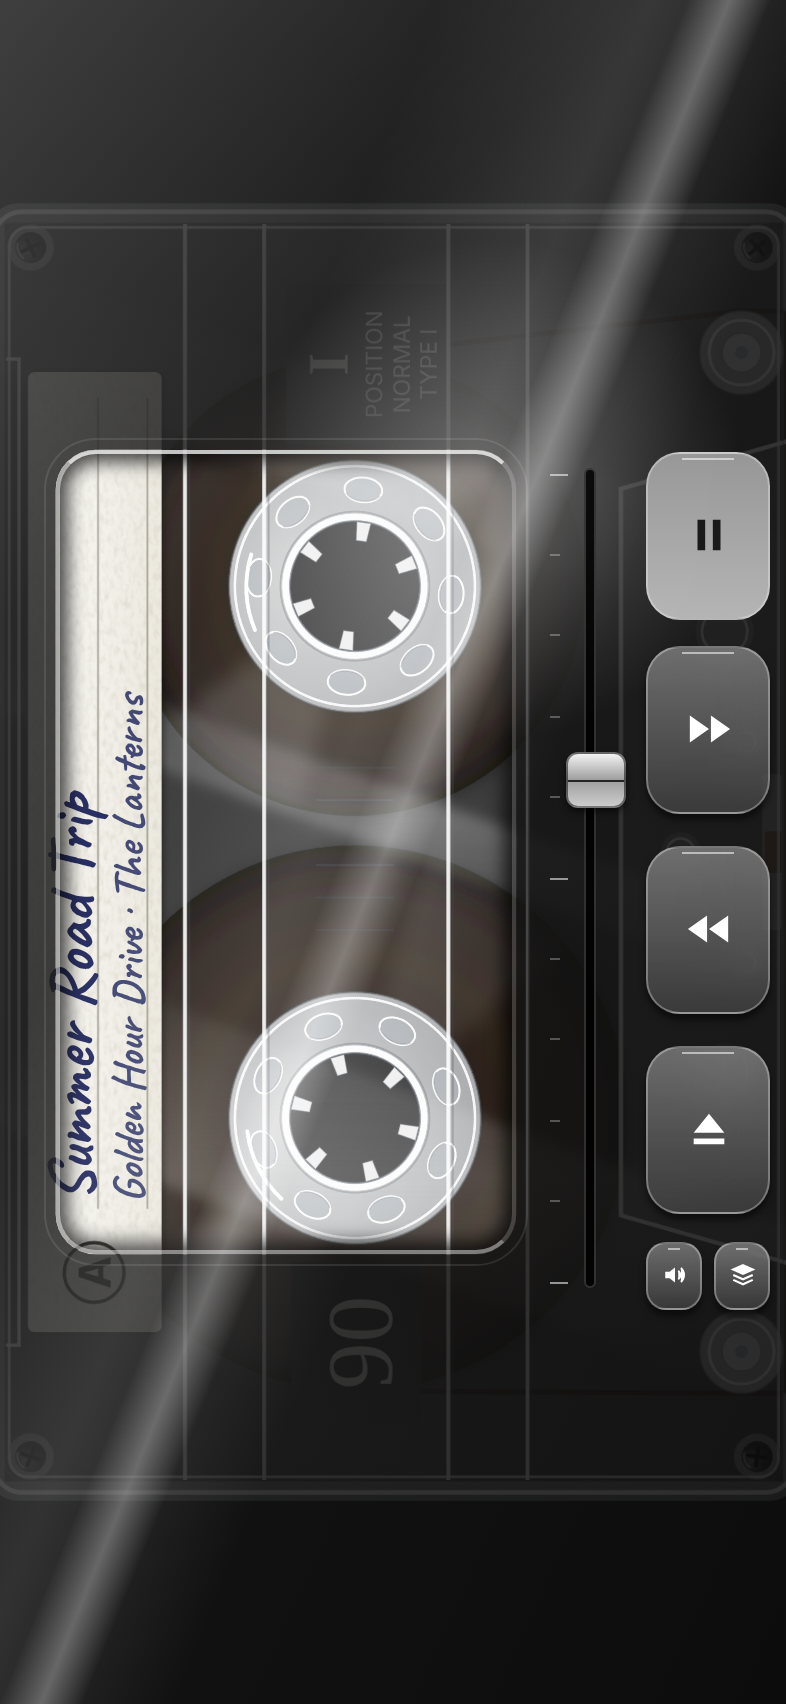
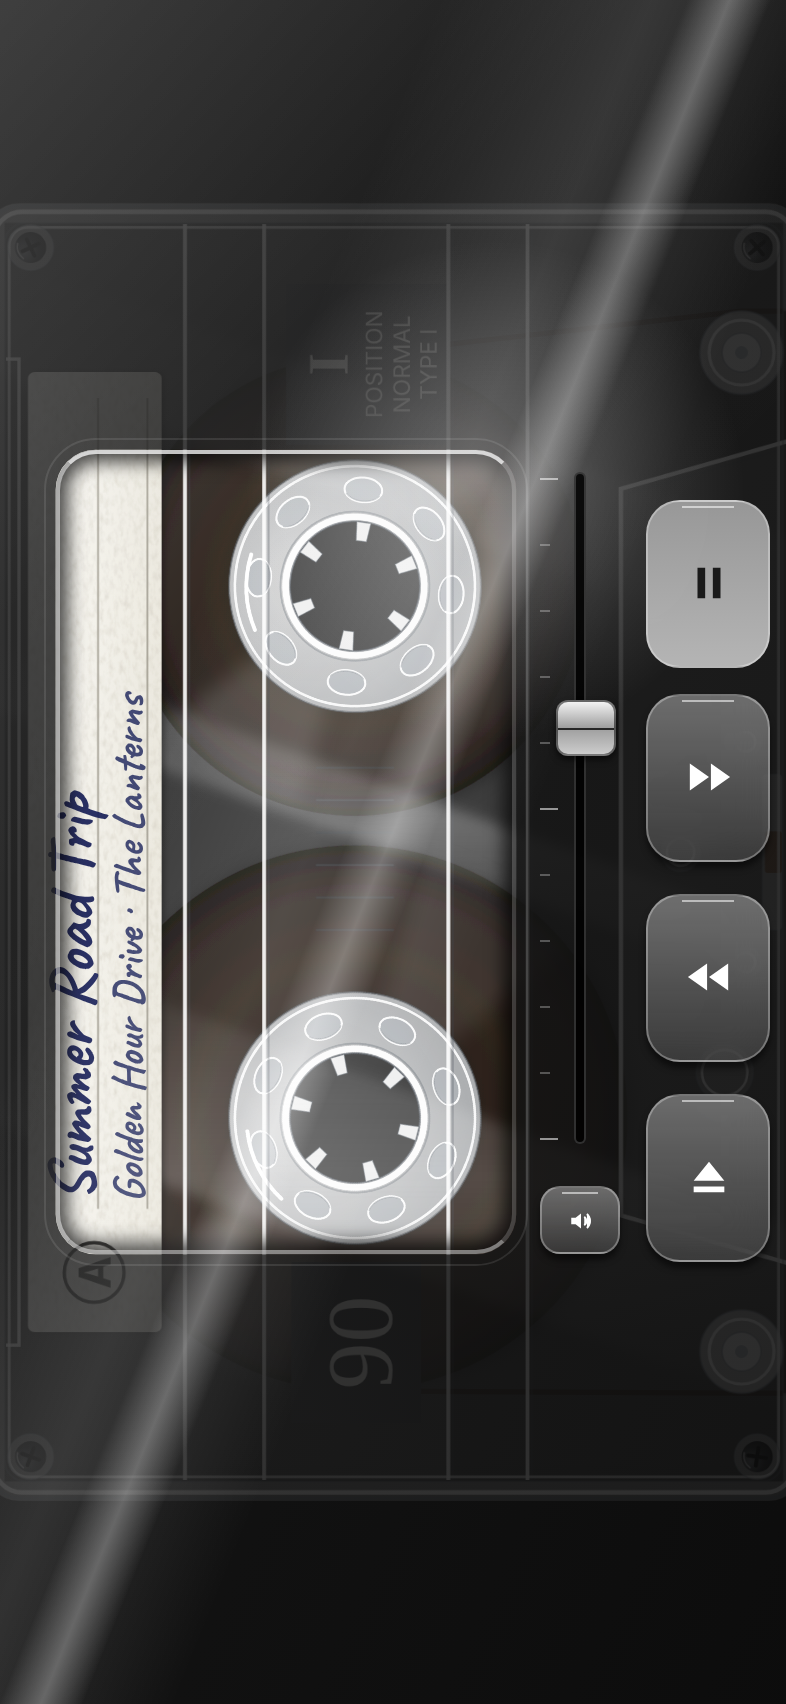
Align the volume fader with the window, add mute, drop stop and the small keys
The fader sits beside the tape window at the same height, with a mute
key at its foot. The last transport key is a plain eject that opens the
shelf, so the separate shelf and sound keys are gone.

Claude-Session: https://claude.ai/code/session_015CNmSEpanpmujmbPK8yXHv

Changed region(s): [[0.8244, 0.2488, 1.0, 0.7776], [0.7023, 0.2799, 0.7939, 0.4977], [0.6718, 0.6532, 0.7939, 0.7465]]

diff --git a/TapeDeck/DeckView.swift b/TapeDeck/DeckView.swift
@@ -33,24 +33,20 @@ struct DeckView: View {
             let insets = geo.safeAreaInsets
             let rail = max(insets.leading, insets.trailing) >= 60
             let railLeading = rail && insets.leading > insets.trailing
+            let full = CGSize(width: geo.size.width + insets.leading + insets.trailing,
+                              height: geo.size.height + insets.top + insets.bottom)
+            let window = windowRect(in: full)
             HStack(spacing: 0) {
-                if railLeading {
-                    keyColumn(insets: insets, rail: true, leading: true)
-                    fader(insets: insets, rail: true)
-                }
+                if railLeading { keyColumn(insets: insets, rail: true, leading: true) }
                 // The face itself is drawn in the background, full screen.
                 Color.clear
                     .contentShape(Rectangle())
                     .onTapGesture {
                         if !model.hasTape { openShelf() }
                     }
-                if !railLeading {
-                    fader(insets: insets, rail: rail)
-                    keyColumn(insets: insets, rail: rail, leading: false)
-                }
+                if !railLeading { keyColumn(insets: insets, rail: rail, leading: false) }
             }
-            .frame(width: geo.size.width + insets.leading + insets.trailing,
-                   height: geo.size.height + insets.top + insets.bottom)
+            .frame(width: full.width, height: full.height)
             .background(
                 ZStack {
                     Color(white: 0.03)
@@ -58,6 +54,12 @@ struct DeckView: View {
                     clearCase
                 }
             )
+            // Volume: beside the window and exactly as tall as it is
+            .overlay(alignment: .topLeading) {
+                VolumeColumn()
+                    .frame(width: 40, height: window.height)
+                    .offset(x: railLeading ? window.minX - 52 : window.maxX + 12, y: window.minY)
+            }
             .ignoresSafeArea()
         }
     }
@@ -76,14 +78,8 @@ struct DeckView: View {
         GeometryReader { geo in
             let size = geo.size
             let upright = size.height > size.width
-            let long = upright ? size.height : size.width
-            let short = upright ? size.width : size.height
-            // As big as the screen allows. It may run a little past the
-            // edges, but never far enough to lose the label.
-            let fit = min(long / 100, short / 63)
-            let fill = max(long / 100, short / 63)
-            let scale = min(fill, fit * 1.04)
-            let window = windowRect(in: size, upright: upright, scale: scale)
+            let scale = tapeScale(in: size)
+            let window = windowRect(in: size)
             let opening = RoundedRectangle(cornerRadius: 20)
             ZStack {
                 if model.hasTape {
@@ -130,8 +126,21 @@ struct DeckView: View {
         }
     }
 
+    /// How many points one millimetre of cassette takes: as big as the screen
+    /// allows. The cassette may run a little past the edges, but never far
+    /// enough to lose the label.
+    private func tapeScale(in size: CGSize) -> CGFloat {
+        let long = max(size.width, size.height)
+        let short = min(size.width, size.height)
+        let fit = min(long / 100, short / 63)
+        let fill = max(long / 100, short / 63)
+        return min(fill, fit * 1.04)
+    }
+
     /// Where `windowOnCassette` lands on screen.
-    private func windowRect(in size: CGSize, upright: Bool, scale: CGFloat) -> CGRect {
+    private func windowRect(in size: CGSize) -> CGRect {
+        let upright = size.height > size.width
+        let scale = tapeScale(in: size)
         let w = windowOnCassette
         if upright {
             // Turned a quarter turn: the cassette's top edge is at the left
@@ -192,54 +201,14 @@ struct DeckView: View {
 
     // MARK: Keys
 
-    /// Four big transport keys (play and pause share one), then two small
-    /// ones side by side: sound effects and the tape shelf.
+    /// Four big keys: play/pause, fast forward, rewind and eject.
     private func keys(height: CGFloat) -> some View {
-        VStack(spacing: 14) {
-            TransportKeys(vertical: true, keyHeight: height, bare: true, big: true,
-                          spacing: keyGap, onEject: openShelf)
-            HStack(spacing: 6) {
-                TapeKey(symbol: model.soundEffectsOn ? "speaker.wave.2.fill" : "speaker.slash.fill",
-                        label: model.soundEffectsOn ? "Tape sound effects on" : "Tape sound effects off",
-                        height: smallKeyHeight, showsLabel: false, corner: 10, symbolSize: 13,
-                        onDown: {
-                            Haptics.keyDown()
-                            model.soundEffectsOn.toggle()
-                        })
-                TapeKey(symbol: "square.stack.3d.up.fill", label: "Tape shelf",
-                        height: smallKeyHeight, showsLabel: false, corner: 10, symbolSize: 13,
-                        onDown: {
-                            Haptics.keyDown()
-                            openShelf()
-                        })
-            }
-        }
+        TransportKeys(vertical: true, keyHeight: height, bare: true, big: true,
+                      spacing: keyGap, onEject: openShelf)
     }
-
-    private let smallKeyHeight: CGFloat = 34
-    /// Room the small keys and the gap above them take in the column.
-    private var smallKeysRoom: CGFloat { 14 + smallKeyHeight }
 
     private func keyHeight(room: CGFloat) -> CGFloat {
-        min(bigKeyHeight, max(40, (room - smallKeysRoom - 3 * keyGap) / 4))
-    }
-
-    /// The volume fader, standing beside the keys and as tall as they are.
-    private func fader(insets: EdgeInsets, rail: Bool) -> some View {
-        GeometryReader { geo in
-            let top = rail ? railStatusHeight : insets.top + 12
-            let bottom = insets.bottom + 12
-            let room = geo.size.height - top - bottom
-            let column = 4 * keyHeight(room: room) + 3 * keyGap + smallKeysRoom
-            VStack(spacing: 0) {
-                if !rail { Spacer(minLength: 0) }
-                VolumeFader().frame(height: min(column, max(60, room)))
-                Spacer(minLength: 0)
-            }
-            .padding(.top, top)
-            .padding(.bottom, bottom)
-        }
-        .frame(width: 40)
+        min(bigKeyHeight, max(40, (room - 3 * keyGap) / 4))
     }
 
     /// The column of keys. In the Duo's rail it starts below the camera and
@@ -281,7 +250,8 @@ struct DeckView: View {
     }
 }
 
-/// The five keys, in a column for the closed phone or a row for the open one.
+/// The transport keys, in a column for the closed phone or a row for the open
+/// one. There is no stop key: pause stops the music and keeps your place.
 struct TransportKeys: View {
     @EnvironmentObject private var model: PlayerModel
     var vertical: Bool
@@ -291,6 +261,9 @@ struct TransportKeys: View {
     /// Four large rounded keys, with play and pause sharing one.
     var big = false
     var spacing: CGFloat = 6
+    /// True where eject should take the tape out; false where it only opens
+    /// the shelf to pick another.
+    var ejectRemovesTape = false
     var onEject: () -> Void = {}
 
     var body: some View {
@@ -320,9 +293,12 @@ struct TransportKeys: View {
                     height: keyHeight, showsLabel: labels, corner: corner, symbolSize: symbol,
                     onDown: { model.seekKeyDown(forward: false) },
                     onUp: { model.seekKeyUp(forward: false) })
-            TapeKey(symbol: "eject.fill", label: "STOP/EJECT",
+            TapeKey(symbol: "eject.fill", label: "EJECT",
                     height: keyHeight, showsLabel: labels, corner: corner, symbolSize: symbol,
-                    onDown: { if model.stopKey() { onEject() } })
+                    onDown: {
+                        model.ejectKey(removeTape: ejectRemovesTape)
+                        onEject()
+                    })
         }
         .padding(bare ? 0 : 6)
         .background(RoundedRectangle(cornerRadius: 12).fill(Color.black.opacity(bare ? 0 : 0.28)))

diff --git a/TapeDeck/VolumeFader.swift b/TapeDeck/VolumeFader.swift
@@ -14,6 +14,19 @@ final class SystemVolume: ObservableObject {
 
     private var observation: NSKeyValueObservation?
     private var lastSet = Date.distantPast
+    private var levelBeforeMute = 0.5
+
+    var isMuted: Bool { level <= 0.001 }
+
+    /// Drops the volume to nothing, or puts it back where it was.
+    func toggleMute() {
+        if isMuted {
+            set(max(levelBeforeMute, 1.0 / 16))
+        } else {
+            levelBeforeMute = level
+            set(0)
+        }
+    }
 
     init() {
         let session = AVAudioSession.sharedInstance()
@@ -57,7 +70,7 @@ private struct VolumeHost: UIViewRepresentable {
 /// cap you slide. Up is louder. It clicks under the thumb as it passes each
 /// step, and it follows the phone's volume buttons.
 struct VolumeFader: View {
-    @StateObject private var volume = SystemVolume()
+    @ObservedObject var volume: SystemVolume
     @State private var lastStep = -1
 
     private let capHeight: CGFloat = 28
@@ -128,6 +141,25 @@ struct VolumeFader: View {
             case .decrement: volume.set(volume.level - 1 / steps)
             @unknown default: break
             }
+        }
+    }
+}
+
+/// The fader with a mute key under it.
+struct VolumeColumn: View {
+    @StateObject private var volume = SystemVolume()
+
+    var body: some View {
+        VStack(spacing: 10) {
+            VolumeFader(volume: volume)
+            TapeKey(symbol: volume.isMuted ? "speaker.slash.fill" : "speaker.wave.2.fill",
+                    label: volume.isMuted ? "Unmute" : "Mute",
+                    latched: volume.isMuted,
+                    height: 34, showsLabel: false, corner: 10, symbolSize: 13,
+                    onDown: {
+                        Haptics.keyDown()
+                        volume.toggleMute()
+                    })
         }
     }
 }

diff --git a/TapeDeck/PlayerModel.swift b/TapeDeck/PlayerModel.swift
@@ -262,17 +262,17 @@ final class PlayerModel: ObservableObject {
         }
     }
 
-    /// Stops the tape. Pressed again while stopped, it ejects.
-    /// Returns true when the tape was ejected.
-    func stopKey() -> Bool {
-        pressFeedback()
-        guard hasTape else { return true }
-        if motion == .stopped {
+    /// The eject key. On the closed phone it only opens the shelf, so the
+    /// music carries on until another tape is chosen. Where `removeTape` is
+    /// set it takes the tape out.
+    func ejectKey(removeTape: Bool) {
+        lastKeyPress = Date()
+        if removeTape, hasTape {
             eject()
-            return true
+        } else {
+            sounds.play(.keyDown)
+            Haptics.keyDown()
         }
-        player.stop()
-        return false
     }
 
     /// Rewind and fast forward: a tap skips a track, a hold winds the tape.

diff --git a/TapeDeck/OpenTrayView.swift b/TapeDeck/OpenTrayView.swift
@@ -38,7 +38,7 @@ struct OpenTrayView: View {
                 .font(.system(size: 14, weight: .semibold))
                 .multilineTextAlignment(.center)
                 .foregroundColor(.white.opacity(0.85))
-            TransportKeys(vertical: false)
+            TransportKeys(vertical: false, ejectRemovesTape: true)
         }
         .padding(20)
         .background(

diff --git a/README.md b/README.md
@@ -6,7 +6,7 @@ A cassette player for Apple Music. Your playlists and albums are tapes on a shel
 
 * Plays your Apple Music library and anything from the Apple Music catalogue (MusicKit).
 * Closed phone (or any ordinary phone screen): the whole screen is the body of a tape player with the cassette inside it. The cassette is as large as the screen allows and runs underneath the body and the keys. The smoked casing covers most of it, dimly showing what is underneath, and a clear window over the label and reels shows the tape itself. Colours are neutral throughout: greys, black and off-white. Glare on the body moves only when the phone moves: reflections slide as it tilts left and right, and a hot spot follows both tilts.
-* Built for the iPhone Duo's outer display, 466 x 678 points. iOS reserves an 84 point column down one side for the camera, clock and status icons; four large keys (play/pause, fast forward, rewind, stop/eject) and two small ones for sound effects and the tape shelf sit in that column underneath them. On other phones the keys get their own strip. A vertical volume fader stands to the left of the keys; it sets the phone's volume and follows the side buttons.
+* Built for the iPhone Duo's outer display, 466 x 678 points. iOS reserves an 84 point column down one side for the camera, clock and status icons; four large keys (play/pause, fast forward, rewind, eject) sit in that column underneath them. Eject opens the tape shelf. There is no stop key: pause stops the music and keeps your place. On other phones the keys get their own strip. A vertical volume fader stands beside the tape window, exactly as tall as it, with a mute key at its foot. It sets the phone's volume and follows the side buttons.
 * Haptics: a firm tap when a key goes down, a lighter one when it springs back, a heavy thud for the cassette door, and a soft pulse four times a second while the tape winds.
 * The cassette is a clear one. The shell front is see-through artwork (bright moulded edges and ridges, stickers, a stick-on paper label, guide rollers, black screws, reflections). Under it the whole reels, their clear hubs, the tape running down to the rollers and the handwriting on the label are drawn live. The artwork source is `tools/cassette-art.html`; `node tools/render-art.js` re-renders it.
 * Open phone (a large, wide screen): the tape shelf on the left and the chosen tape on the right. The shelf shows each playlist and album as a cassette spine: an off-white card with the name handwritten on it and a grey band. Pick a tape, then close the phone to start it playing. The keys are there too, for screens that cannot fold.
